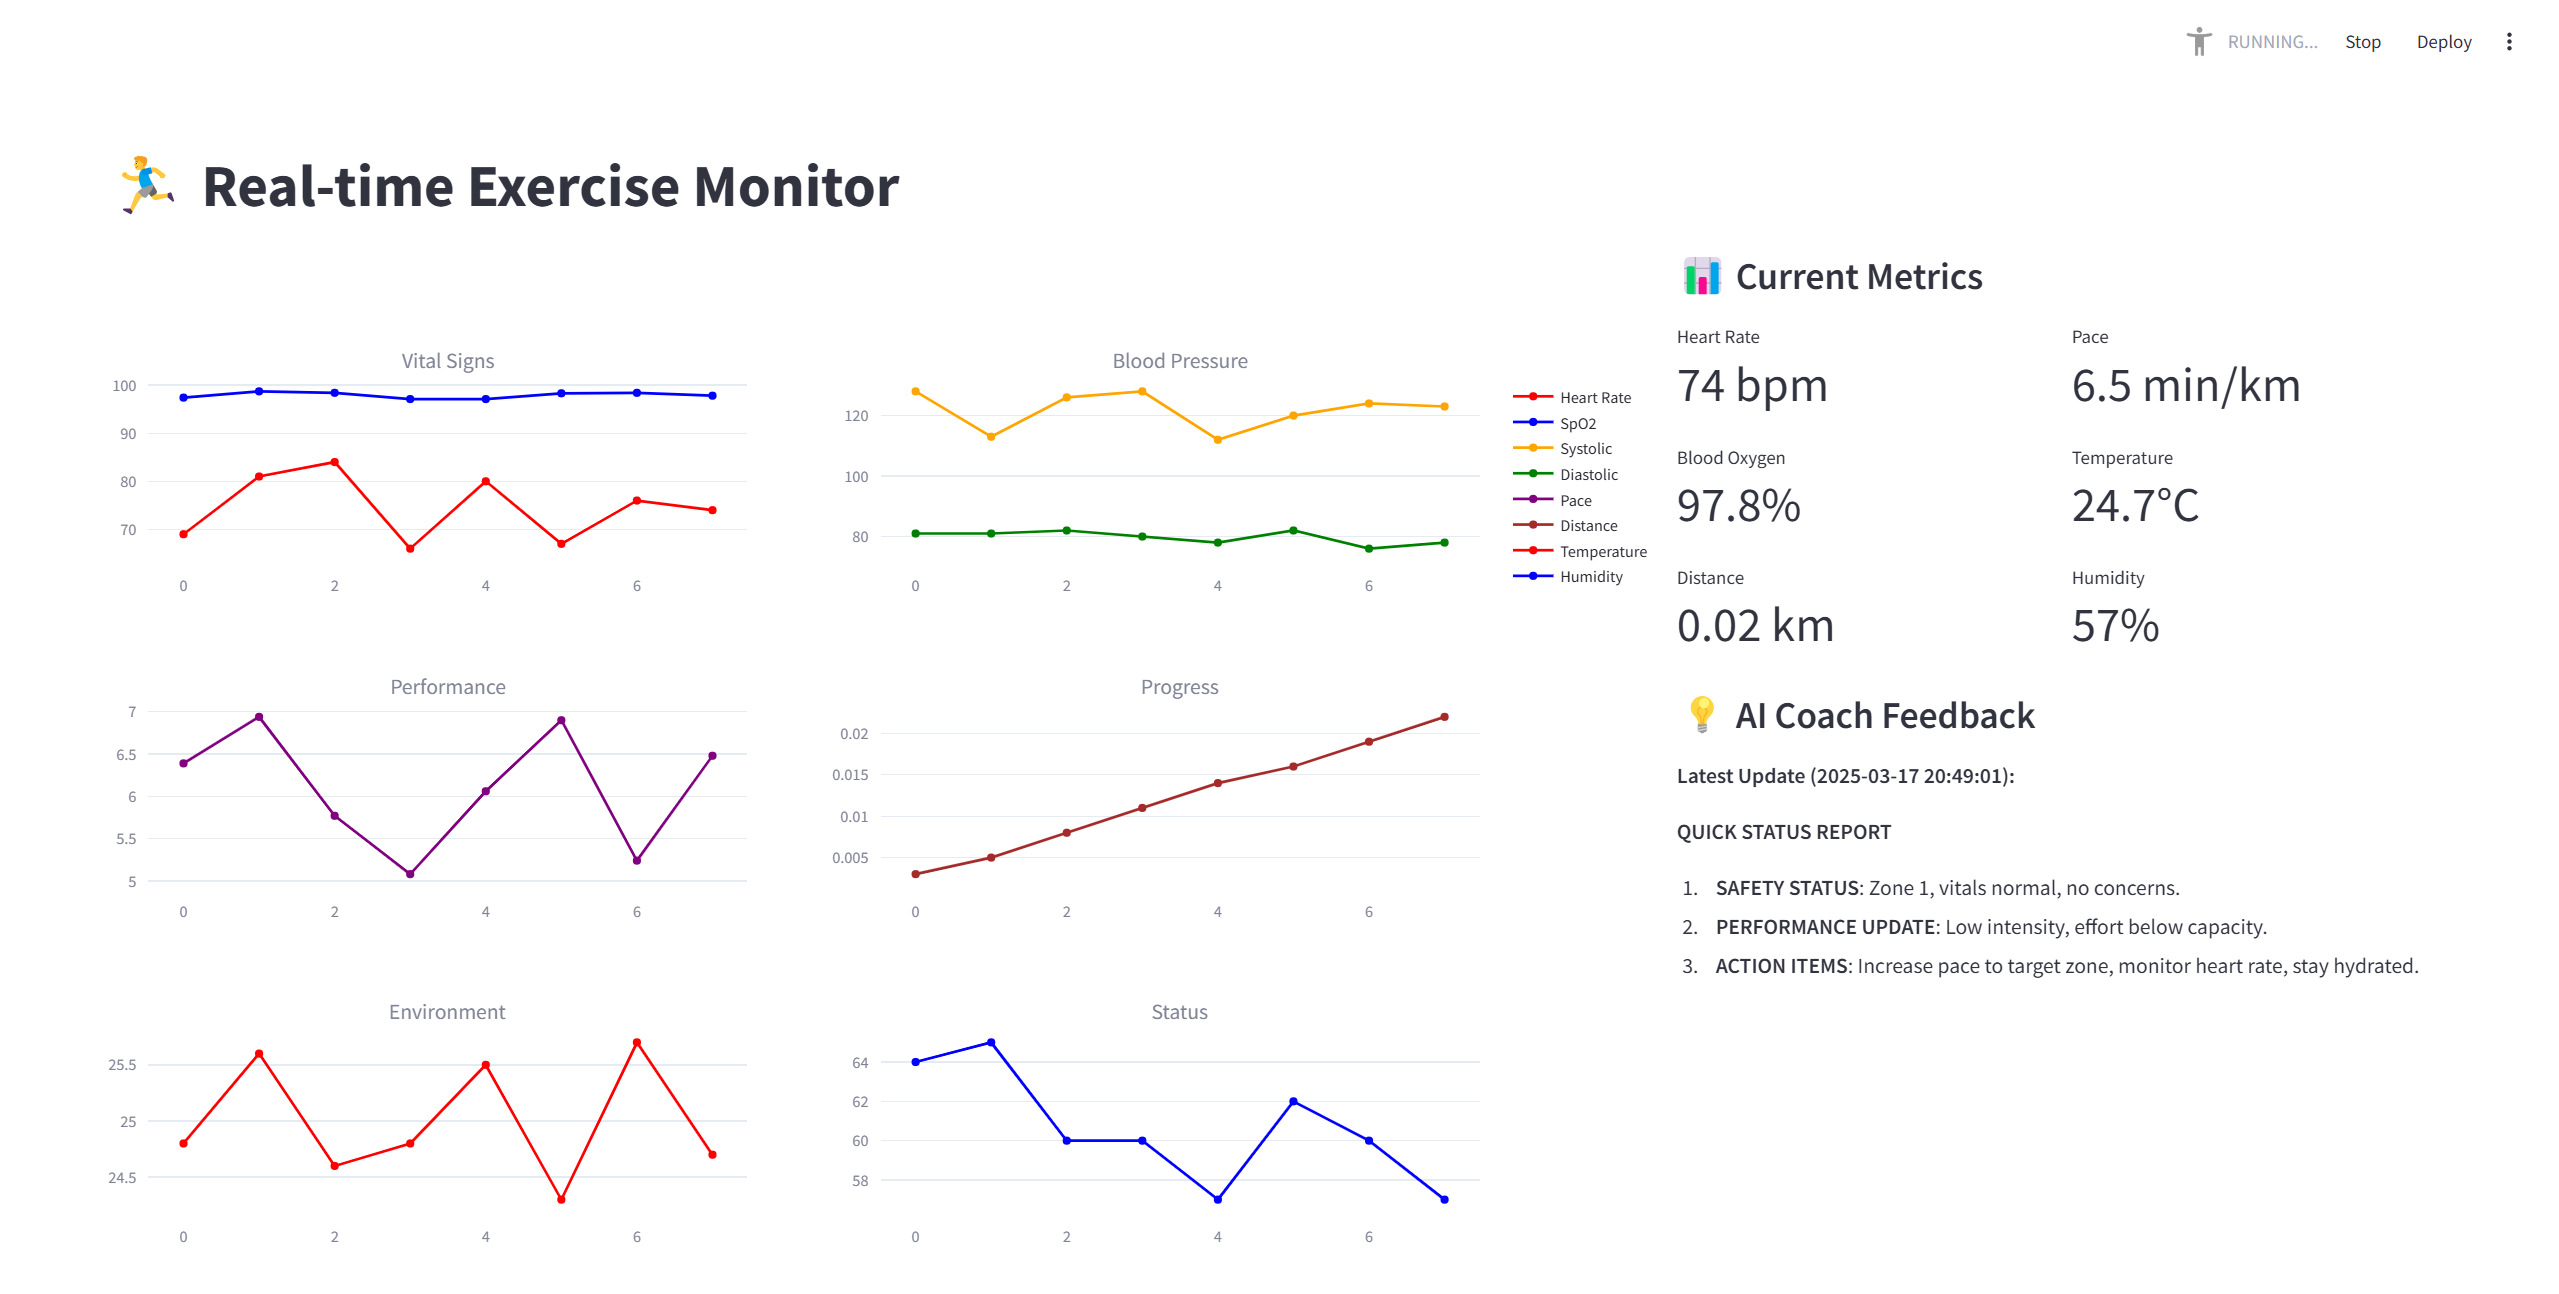
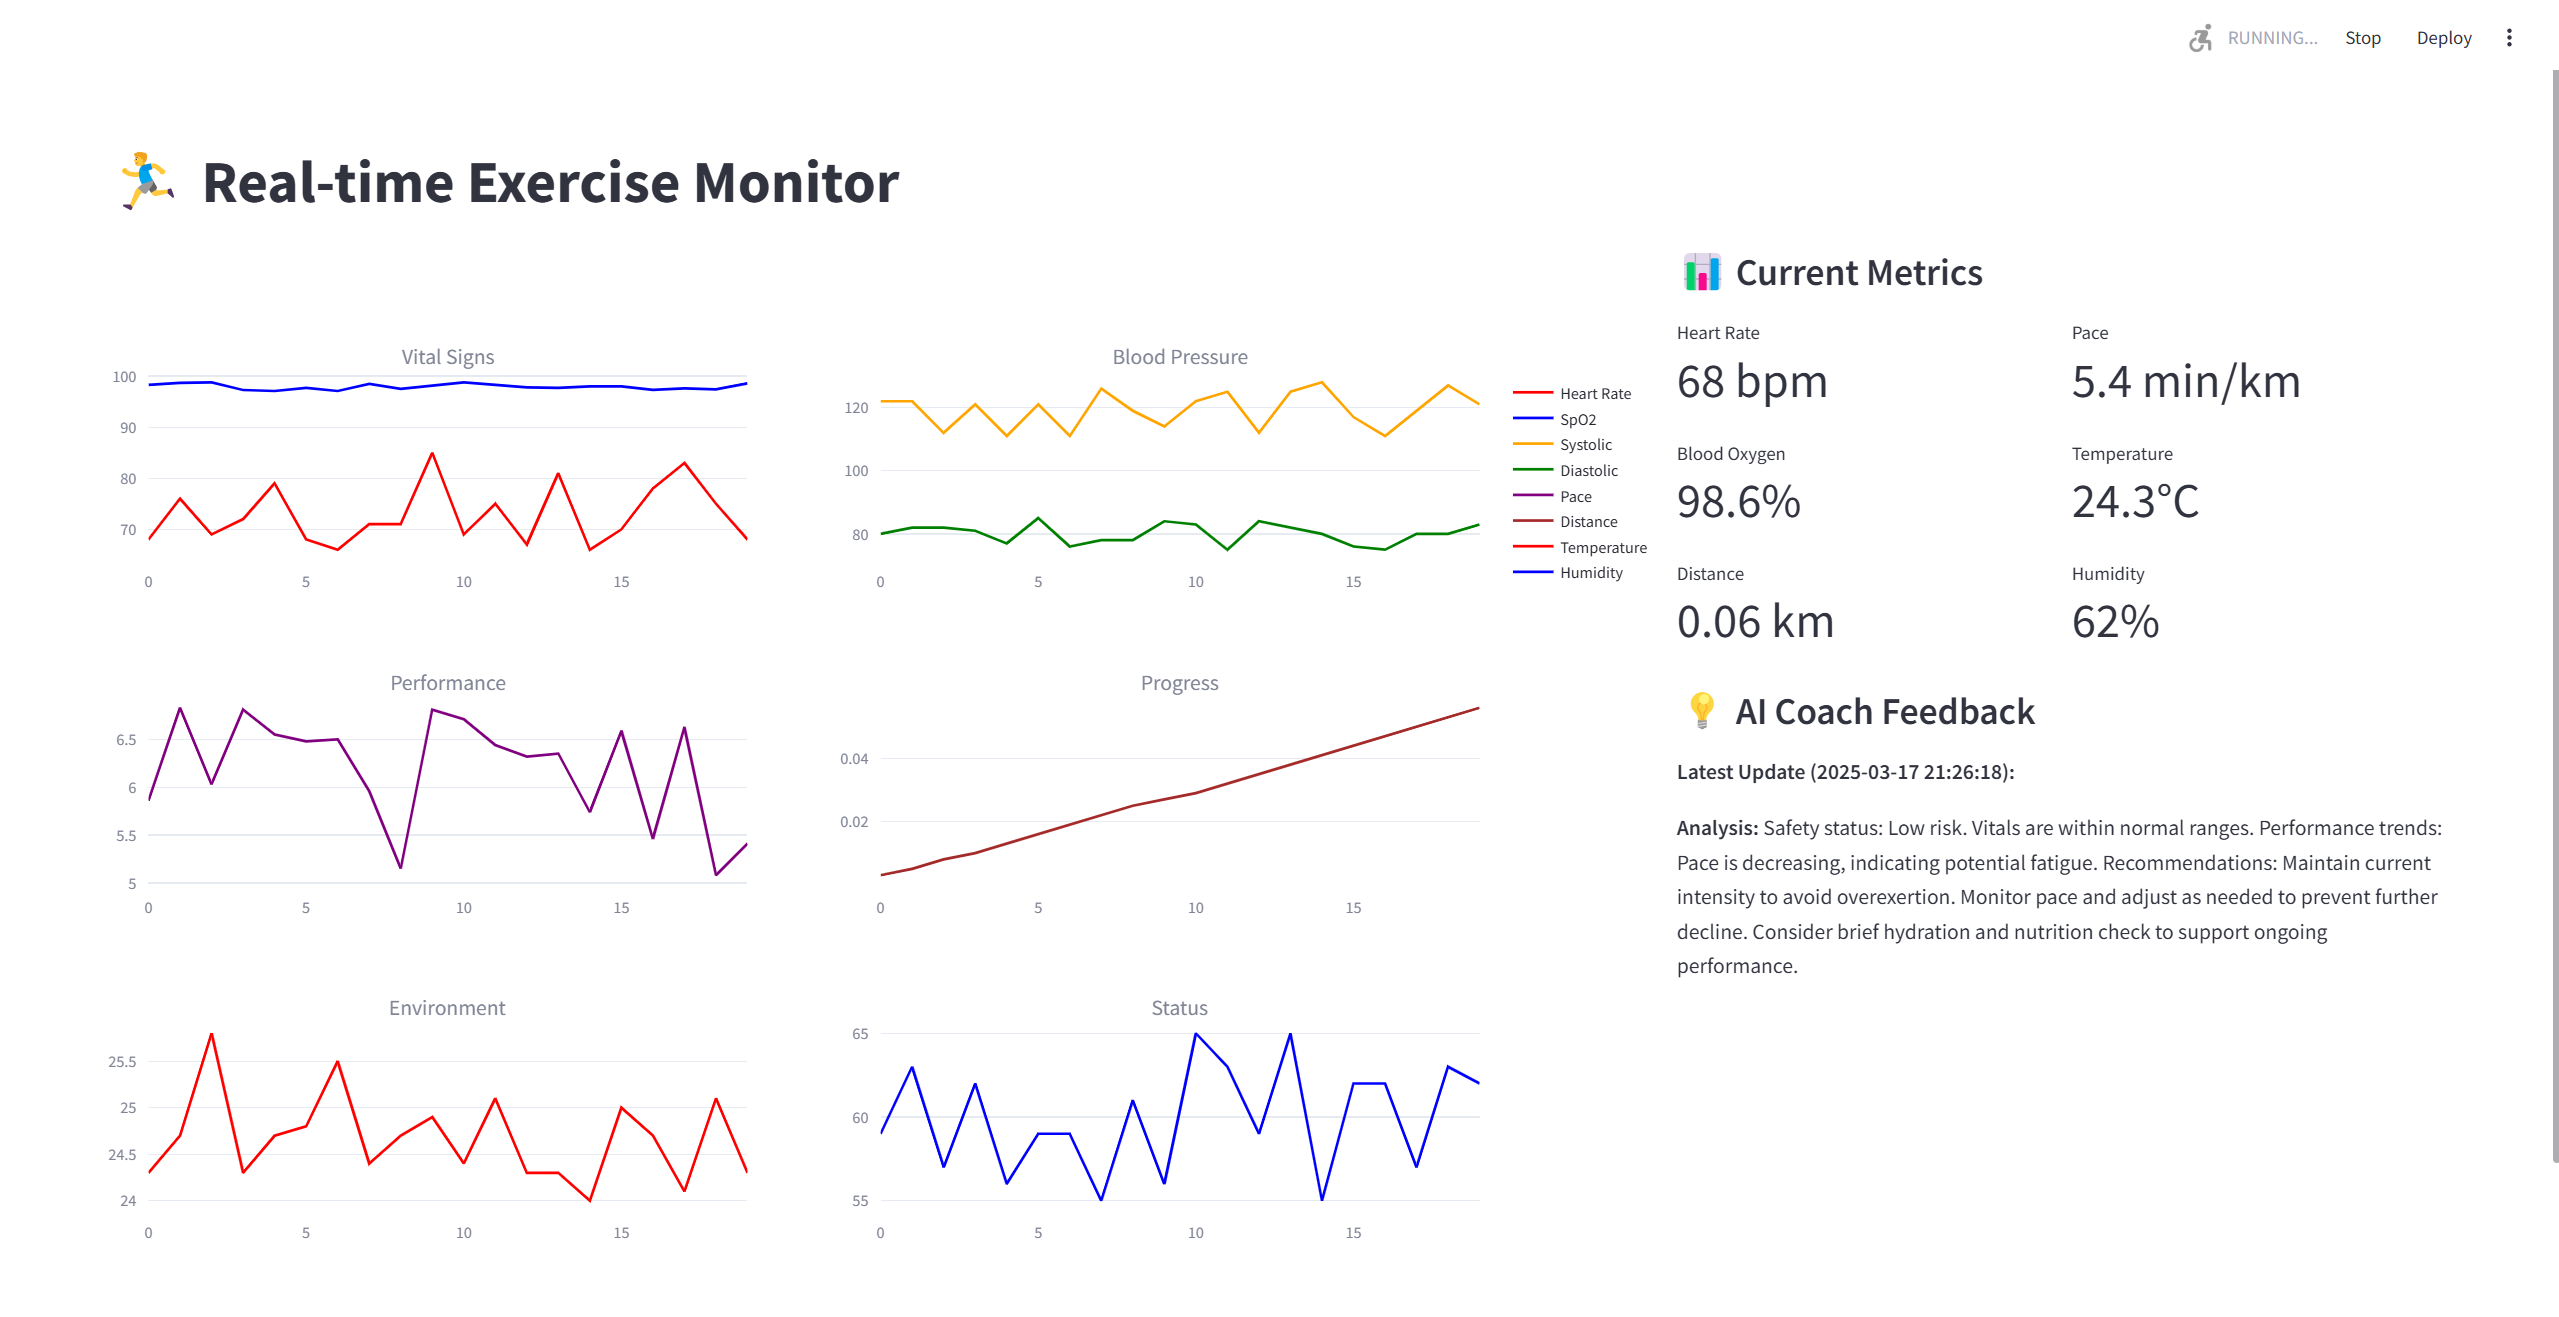
added: historical data

diff --git a/fetch_llm.py b/fetch_llm.py
@@ -29,16 +29,7 @@ Exercise Reference Ranges:
 """
 
 def get_llm_response(prompt, system_message=SYSTEM_MESSAGE):
-    """
-    Get LLM model response
-    
-    Args:
-        prompt (str): user input
-        system_message (str): system prompt
-    
-    Returns:
-        str: LLM output
-    """
+    """Get LLM model response"""
     load_dotenv()
     api_key = os.environ.get("SAMBANOVA_API_KEY")
     
@@ -59,50 +50,69 @@ def get_llm_response(prompt, system_message=SYSTEM_MESSAGE):
     
     return response.choices[0].message.content
 
-def analyze_health_data(data):
-    """Generate exercise analysis prompt"""
+def analyze_trends(data_history):
+    """分析数据趋势"""
+    if not data_history:
+        return {}
+        
+    trends = {
+        "heart_rate": [],
+        "blood_pressure_systolic": [],
+        "blood_pressure_diastolic": [],
+        "blood_oxygen": [],
+        "pace": [],
+        "distance": [],
+        "calories": []
+    }
     
-    # Calculate training zone percentage
-    max_hr = 220 - 30  # Assuming 30 years old
-    hr_percentage = round((data['heart_rate'] / max_hr) * 100)
+    # 收集数据
+    for data in data_history:
+        trends["heart_rate"].append(data["heart_rate"])
+        trends["blood_pressure_systolic"].append(data["blood_pressure"]["systolic"])
+        trends["blood_pressure_diastolic"].append(data["blood_pressure"]["diastolic"])
+        trends["blood_oxygen"].append(data["blood_oxygen"])
+        trends["pace"].append(data["performance"]["pace"])
+        trends["distance"].append(data["performance"]["distance"])
+        trends["calories"].append(data["performance"]["calories"])
+    
+    # 计算变化
+    def calculate_trend(values):
+        if len(values) < 2:
+            return "stable"
+        diff = values[-1] - values[0]
+        if abs(diff) < 0.05 * values[0]:  # 5%阈值
+            return "stable"
+        return "increasing" if diff > 0 else "decreasing"
+    
+    return {
+        "heart_rate_trend": calculate_trend(trends["heart_rate"]),
+        "blood_pressure_trend": calculate_trend(trends["blood_pressure_systolic"]),
+        "blood_oxygen_trend": calculate_trend(trends["blood_oxygen"]),
+        "pace_trend": calculate_trend(trends["pace"]),
+        "performance_trend": calculate_trend(trends["distance"])
+    }
+
+def analyze_health_data(data, data_history):
+    """Generate exercise analysis prompt with trend analysis"""
+    trends = analyze_trends(data_history)
     
     prompt = f"""
-    REAL-TIME EXERCISE MONITORING DATA:
+    REAL-TIME EXERCISE DATA:
+    Vitals: HR {data['heart_rate']}bpm, BP {data['blood_pressure']['systolic']}/{data['blood_pressure']['diastolic']}, SpO2 {data['blood_oxygen']}%
+    Performance: {data['performance']['pace']} min/km, {data['performance']['distance']} km
 
-    Timestamp: {data['timestamp']}
+    10-Record Trends:
+    ❤ HR: {trends['heart_rate_trend']}
+    🩺 BP: {trends['blood_pressure_trend']}
+    🫁 SpO2: {trends['blood_oxygen_trend']}
+    ⚡ Pace: {trends['pace_trend']}
 
-    VITAL SIGNS:
-    ❤ Heart Rate: {data['heart_rate']} bpm ({hr_percentage}% of max)
-    🩺 Blood Pressure: {data['blood_pressure']['systolic']}/{data['blood_pressure']['diastolic']} mmHg
-    🫁 SpO2: {data['blood_oxygen']}%
+    Provide a 50-100 word analysis covering:
+    1. Safety status & risks
+    2. Performance trends
+    3. Key recommendations
 
-    PERFORMANCE METRICS:
-    ⚡ Pace: {data['performance']['pace']} min/km
-    📏 Distance: {data['performance']['distance']} km
-    🔥 Calories: {data['performance']['calories']} kcal
-
-    ENVIRONMENTAL:
-    🌡 Temperature: {data['environment']['temperature']}°C
-    💧 Humidity: {data['environment']['humidity']}%
-
-    Please provide a QUICK STATUS REPORT:
-
-    1. SAFETY STATUS:
-    - Current training zone
-    - Key vitals assessment
-    - Any immediate concerns
-
-    2. PERFORMANCE UPDATE:
-    - Exercise intensity evaluation
-    - Effort vs. capacity
-    - Progress indicators
-
-    3. ACTION ITEMS:
-    - Immediate adjustments needed
-    - Next steps recommendation
-    - Safety precautions if any
-
-    Format: Keep response under 100 words, prioritize safety alerts, use clear directives.
+    Focus on critical changes and immediate action items. Be concise and direct.
     """
     return prompt
 

diff --git a/terminal.py b/terminal.py
@@ -29,6 +29,9 @@ class HealthDataSimulator:
         
         self.abnormal_probability = 0.1
 
+        self.data_history = []
+        self.max_history = 10  # 保存最近10条记录
+
     def generate_performance_data(self):
         """生成运动表现数据"""
         pace = round(self.base_pace + random.uniform(-1, 1), 2)
@@ -88,6 +91,11 @@ class HealthDataSimulator:
             data["status"] = "warning"
         if (heart_rate > 180 or blood_oxygen < 90):
             data["status"] = "critical"
+
+        # 添加数据到历史记录
+        self.data_history.append(data)
+        if len(self.data_history) > self.max_history:
+            self.data_history.pop(0)
             
         return data
 

diff --git a/ui.py b/ui.py
@@ -10,6 +10,7 @@ from fetch_llm import get_llm_response, analyze_health_data
 import plotly.graph_objects as go
 from plotly.subplots import make_subplots
 
+
 def initialize_session_state():
     """初始化Session State"""
     if 'history' not in st.session_state:
@@ -154,7 +155,7 @@ def main():
                 st.metric("Humidity", f"{data['environment']['humidity']}%")
         
         # 更新分析
-        prompt = analyze_health_data(data)
+        prompt = analyze_health_data(data, st.session_state.simulator.data_history)
         analysis = get_llm_response(prompt)
         
         # 使用空占位符更新分析结果

diff --git a/main.py b/main.py
@@ -12,7 +12,8 @@ def run_terminal_mode(simulator):
     try:
         while True:
             health_data = simulator.generate_health_data()
-            prompt = analyze_health_data(health_data)
+            # 修改这里，传入历史数据
+            prompt = analyze_health_data(health_data, simulator.data_history)
             response = get_llm_response(prompt)
             
             print("\nCurrent Health Data:")
